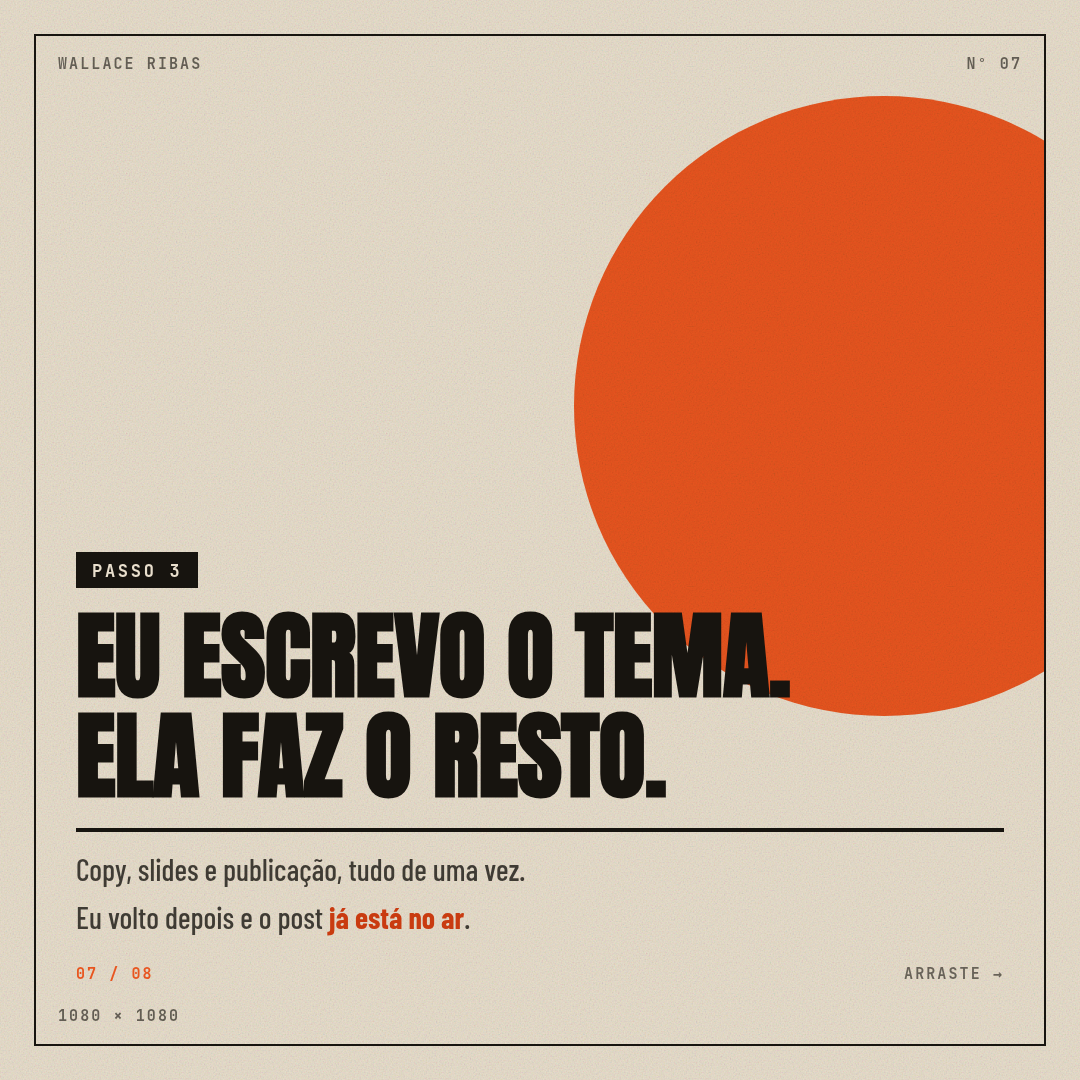
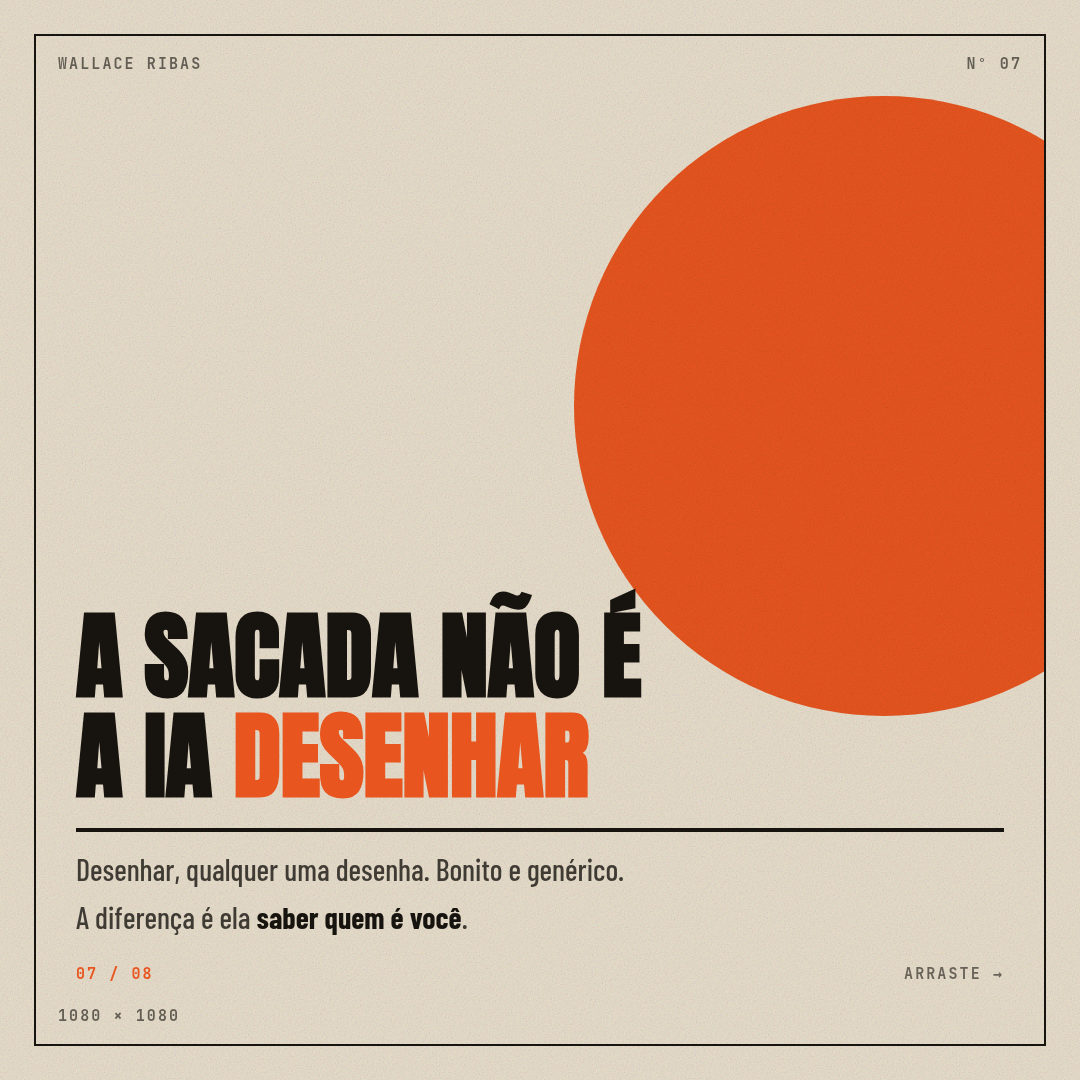
Da a cada slide o layout que o conteudo pede
Ate agora era uma forma unica: o mesmo desenho repetido oito vezes, com
o texto trocado. Agora o slide declara o formato e a estrutura visual
carrega significado junto com a copy.

Sete layouts: capa, declaracao, numero, lista, fluxo, comparacao e fecho.
A lista ganha marcador e regua por item, o fluxo desenha etapas ligadas
por um trilho, a comparacao vira dois blocos em contraste e o numero
promove o dado a protagonista.

O sol se ajusta ao layout: some no numero, onde o proprio numero e a
massa laranja, e recua para canto onde ha muito conteudo.

Claude-Session: https://claude.ai/code/session_01Psw1fQEfEXqddc29Y9S1W8

Changed region(s): [[0.0611, 0.4889, 0.7333, 0.7639], [0.0611, 0.7944, 0.5806, 0.8861]]

diff --git a/instagram/scripts/template-poster.html b/instagram/scripts/template-poster.html
@@ -1,5 +1,5 @@
 <meta charset="utf-8">
-<body class="__CAPA__">
+<body class="__CLASSES__">
 <style>
   /* ============================================================
      Estilo POSTER — referência: cartazes retrô de impressão offset.
@@ -180,6 +180,115 @@
     color: rgba(23,20,15,.60);
   }
   .rodape .cont { color: var(--laranja); }
+
+  /* ============================================================
+     LAYOUTS — cada slide recebe a forma que o conteudo pede.
+     A fôrma unica fazia oito slides iguais; aqui a estrutura
+     visual carrega significado junto com a copy.
+     ============================================================ */
+
+  /* ---- NUMERO: o dado vira o protagonista da arte. ---- */
+  .numerao {
+    font-family: 'Anton', sans-serif;
+    font-size: 300px; line-height: .78;
+    color: var(--laranja);
+    letter-spacing: -.02em;
+    margin-bottom: 6px;
+  }
+  body.l-numero h1 { font-size: 62px; }
+  body.l-numero .palco { bottom: 92px; }
+
+  /* ---- LISTA: cada item ganha marcador e linha propria. ---- */
+  .lista { margin-top: 4px; }
+  .lista .item {
+    display: flex; align-items: baseline; gap: 20px;
+    padding: 15px 0;
+    border-bottom: 2px solid rgba(23,20,15,.16);
+  }
+  .lista .item:last-child { border-bottom: 0; }
+  .lista .marca-item {
+    font-family: 'Mono', monospace;
+    font-size: 19px; font-weight: 700;
+    color: var(--laranja);
+    flex-shrink: 0; width: 40px;
+  }
+  .lista .txt-item {
+    font-family: 'Cond', sans-serif;
+    font-size: 37px; font-weight: 500;
+    line-height: 1.18;
+    color: var(--tinta);
+  }
+
+  /* ---- FLUXO: caixas ligadas, para processo em etapas. ---- */
+  .fluxo { margin-top: 8px; display: flex; flex-direction: column; gap: 0; }
+  .fluxo .etapa { display: flex; align-items: stretch; gap: 0; }
+  .fluxo .trilho {
+    width: 54px; flex-shrink: 0;
+    display: flex; flex-direction: column; align-items: center;
+  }
+  .fluxo .bolha {
+    width: 42px; height: 42px; flex-shrink: 0;
+    border: 3px solid var(--tinta);
+    background: var(--laranja);
+    border-radius: 50%;
+    display: flex; align-items: center; justify-content: center;
+    font-family: 'Mono', monospace;
+    font-size: 17px; font-weight: 700;
+    color: var(--tinta);
+  }
+  .fluxo .fio-v { flex: 1; width: 3px; background: var(--tinta); }
+  .fluxo .etapa:last-child .fio-v { display: none; }
+  .fluxo .corpo-etapa {
+    padding: 4px 0 26px 22px;
+    font-family: 'Cond', sans-serif;
+    font-size: 35px; font-weight: 500;
+    line-height: 1.16; color: var(--tinta);
+  }
+  .fluxo .etapa:last-child .corpo-etapa { padding-bottom: 0; }
+
+  /* ---- COMPARACAO: dois blocos, o contraste vira imagem. ---- */
+  .versus { margin-top: 10px; display: flex; gap: 0; border: 3px solid var(--tinta); }
+  .versus .lado { flex: 1; padding: 26px 24px 28px; }
+  .versus .lado + .lado { border-left: 3px solid var(--tinta); }
+  .versus .antes { background: rgba(23,20,15,.06); }
+  .versus .depois { background: var(--laranja); }
+  .versus .rotulo {
+    font-family: 'Mono', monospace;
+    font-size: 16px; font-weight: 700;
+    letter-spacing: .18em; text-transform: uppercase;
+    margin-bottom: 12px;
+  }
+  .versus .antes .rotulo  { color: rgba(23,20,15,.52); }
+  .versus .depois .rotulo { color: rgba(23,20,15,.62); }
+  .versus .valor {
+    font-family: 'Anton', sans-serif;
+    font-size: 46px; line-height: 1.02;
+    text-transform: uppercase; color: var(--tinta);
+  }
+
+  /* No layout numero o proprio numero e a massa laranja: dois circulos
+     grandes brigariam pela atencao. */
+  body.l-numero .sol { display: none; }
+
+  /* Layouts com muito conteudo: o sol recua para canto, sem boiar no meio. */
+  body.l-lista .sol,
+  body.l-fluxo .sol,
+  body.l-comparacao .sol {
+    width: 340px; height: 340px;
+    right: -110px; top: -80px;
+  }
+
+  /* ---- FECHO: centralizado, o unico slide que quebra o eixo. ---- */
+  body.l-fecho .palco {
+    top: 0; bottom: 0;
+    justify-content: center; align-items: center; text-align: center;
+  }
+  body.l-fecho h1 { text-align: center; }
+  body.l-fecho .selo { align-self: center; }
+  body.l-fecho .regua { width: 180px; align-self: center; }
+  body.l-fecho .apoio { max-width: 100%; text-align: center; }
+  body.l-fecho .rodape { width: 100%; }
+  body.l-fecho .sol { width: 900px; height: 900px; right: -300px; top: -180px; }
 </style>
 
 <div class="papel">
@@ -196,8 +305,10 @@
 
 <div class="palco">
   __SELO__
+  __NUMERAO__
   <h1>__TITULO__</h1>
   <div class="regua"></div>
+  __CORPO__
   __APOIO__
   <div class="rodape">
     <span class="cont">__CONTADOR__</span>

diff --git a/instagram/scripts/criar_slides.py b/instagram/scripts/criar_slides.py
@@ -37,6 +37,8 @@ TEMPLATES = {"wind": AQUI / "template.html", "poster": AQUI / "template-poster.h
 FONTES = AQUI.parent / "fontes"
 
 # Titulo curto pode ser grande; titulo longo precisa encolher para caber.
+LAYOUTS = ("capa", "declaracao", "numero", "lista", "fluxo", "comparacao", "fecho")
+
 FAIXAS = {
     "wind":   [(30, 82), (60, 70), (95, 60), (135, 52), (999, 46)],
     "poster": [(24, 118), (48, 96), (78, 80), (115, 66), (999, 56)],
@@ -44,8 +46,11 @@ FAIXAS = {
 }
 
 
-def tamanho_titulo(texto, estilo, capa=False):
+def tamanho_titulo(texto, estilo, capa=False, layout="declaracao"):
     limpo = re.sub(r"[*_]", "", texto)
+    # Layouts com muito conteudo abaixo precisam de titulo menor.
+    if layout in ("lista", "fluxo", "comparacao", "numero"):
+        return {"numero": 58, "comparacao": 56}.get(layout, 52)
     chave = f"{estilo}-capa" if capa and f"{estilo}-capa" in FAIXAS else estilo
     faixas = FAIXAS[chave]
     for limite, tam in faixas:
@@ -78,15 +83,39 @@ def ler_slides(caminho):
         linhas = [l.strip() for l in bloco.strip().splitlines() if l.strip()]
         if not linhas:
             continue
-        # Primeira linha entre colchetes vira selo; o titulo passa a ser a seguinte.
-        selo = ""
-        if linhas[0].startswith("[") and linhas[0].endswith("]"):
-            selo = linhas[0][1:-1].strip()
+        # [selo] e {layout} podem vir em qualquer ordem, antes do titulo.
+        selo, layout, numerao = "", "declaracao", ""
+        while linhas:
+            linha = linhas[0]
+            if linha.startswith("[") and linha.endswith("]"):
+                selo = linha[1:-1].strip()
+            elif linha.startswith("{") and "}" in linha:
+                fecha = linha.index("}")
+                layout = linha[1:fecha].strip().lower()
+                if layout not in LAYOUTS:
+                    print(f"ERRO: layout '{layout}' nao existe. Use: {', '.join(LAYOUTS)}")
+                    sys.exit(1)
+                resto = linha[fecha + 1:].strip()
+                if resto:
+                    linhas[0] = resto
+                    continue
+            else:
+                break
             linhas = linhas[1:]
+
+        # No layout numero, a linha seguinte e o proprio numero gigante.
+        if layout == "numero" and linhas:
+            numerao, linhas = linhas[0], linhas[1:]
+
         if not linhas:
-            print(f"ERRO: um slide tem o selo '[{selo}]' mas nenhum titulo depois.")
+            print("ERRO: um slide tem selo ou layout mas nenhum titulo depois.")
             sys.exit(1)
-        slides.append({"selo": selo, "titulo": linhas[0], "apoio": linhas[1:]})
+
+        # Linhas que comecam com "- " sao itens; o resto e texto de apoio.
+        itens = [l[2:].strip() for l in linhas[1:] if l.startswith("- ")]
+        apoio = [l for l in linhas[1:] if not l.startswith("- ")]
+        slides.append({"selo": selo, "layout": layout, "numerao": numerao,
+                       "titulo": linhas[0], "itens": itens, "apoio": apoio})
 
     if not slides:
         print("ERRO: o arquivo esta vazio.")
@@ -110,9 +139,46 @@ def foto_embutida(caminho):
     return f"url('data:{tipo};base64,{dados}')"
 
 
+def montar_corpo(slide):
+    """Cada layout desenha o miolo do slide do seu proprio jeito."""
+    layout, itens = slide["layout"], slide["itens"]
+
+    if layout == "lista" and itens:
+        linhas = "".join(
+            f'<div class="item"><span class="marca-item">{i:02d}</span>'
+            f'<span class="txt-item">{marcar(x)}</span></div>'
+            for i, x in enumerate(itens, start=1)
+        )
+        return f'<div class="lista">{linhas}</div>'
+
+    if layout == "fluxo" and itens:
+        etapas = "".join(
+            f'<div class="etapa"><div class="trilho"><div class="bolha">{i}</div>'
+            f'<div class="fio-v"></div></div>'
+            f'<div class="corpo-etapa">{marcar(x)}</div></div>'
+            for i, x in enumerate(itens, start=1)
+        )
+        return f'<div class="fluxo">{etapas}</div>'
+
+    if layout == "comparacao" and itens:
+        lados = []
+        for i, bruto in enumerate(itens[:2]):
+            rotulo, _, valor = bruto.partition("|")
+            classe = "antes" if i == 0 else "depois"
+            lados.append(
+                f'<div class="lado {classe}"><div class="rotulo">{marcar(rotulo.strip())}</div>'
+                f'<div class="valor">{marcar(valor.strip())}</div></div>'
+            )
+        return f'<div class="versus">{"".join(lados)}</div>'
+
+    return ""
+
+
 def montar_html(slide, numero, total, marca, foto_css, estilo):
     modelo = TEMPLATES[estilo].read_text(encoding="utf-8")
     corpo = "".join(f"<p>{marcar(l)}</p>" for l in slide["apoio"])
+    layout = slide["layout"] if numero > 1 else "capa"
+    classes = " ".join(filter(None, ["capa" if numero == 1 else "", f"l-{layout}"]))
     if estilo == "poster":
         arrasta = "Arraste &rarr;" if numero < total else "Fim"
     else:
@@ -127,8 +193,10 @@ def montar_html(slide, numero, total, marca, foto_css, estilo):
         "__NUM__": f"{numero:02d}",
         "__MARCA__": html.escape(marca),
         "__SELO__": f'<div class="selo">{html.escape(slide["selo"])}</div>' if slide["selo"] else "",
-        "__TAM__": str(tamanho_titulo(slide["titulo"], estilo, numero == 1)),
-        "__CAPA__": "capa" if numero == 1 else "",
+        "__TAM__": str(tamanho_titulo(slide["titulo"], estilo, numero == 1, layout)),
+        "__CLASSES__": classes,
+        "__NUMERAO__": f'<div class="numerao">{html.escape(slide["numerao"])}</div>' if slide["numerao"] else "",
+        "__CORPO__": montar_corpo(slide),
         "__TITULO__": marcar(slide["titulo"]),
         "__APOIO__": f'<div class="apoio">{corpo}</div>' if corpo else "",
         "__CONTADOR__": f"{numero:02d} / {total:02d}",
@@ -183,7 +251,7 @@ def main():
                 pagina.wait_for_timeout(340)  # deixa as fontes carregarem
                 destino = pasta / f"slide-{i:02d}.png"
                 pagina.screenshot(path=str(destino))
-                print(f"  {destino}  —  {re.sub(r'[*_]', '', slide['titulo'])[:46]}")
+                print(f"  {destino}  [{slide['layout']}]  {re.sub(r'[*_]', '', slide['titulo'])[:38]}")
             navegador.close()
     except Exception as e:
         print(f"\nERRO ao renderizar: {e}")
